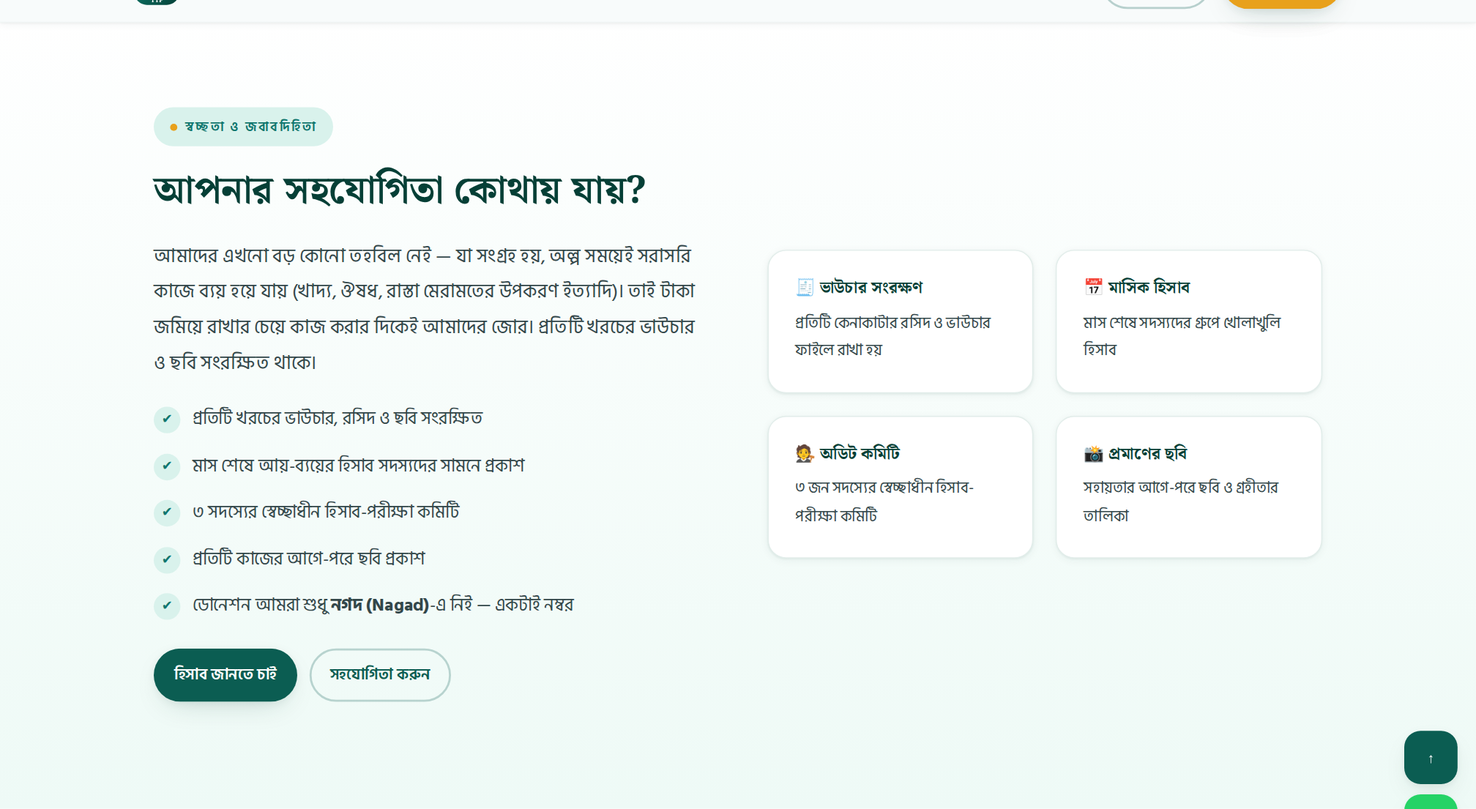
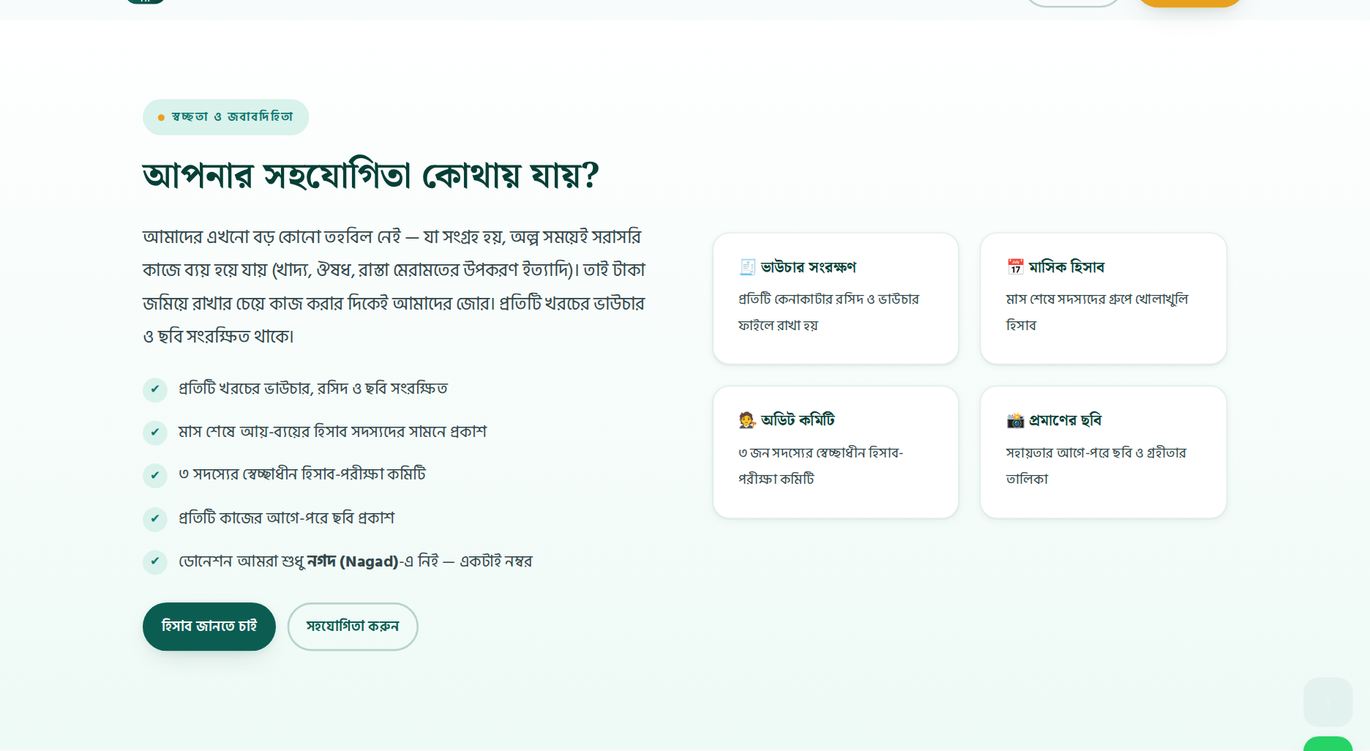
ফিক্স: পেজের শুরুতে ডুপ্লিকেট হয়ে যাওয়া হেডার/টপবার অংশ সরানো (HTML এখন সম্পূর্ণ ভ্যালিড)
- আগের এডিট স্ক্রিপ্টে হেড+টপবার ব্লক দুবার বসে গিয়েছিল → মোবাইলে হেডার দুইবার দেখাচ্ছিল
- এখন DOCTYPE/style/topbar/main সবই একবার, html.parser ভ্যালিডেশন ০ এরর
- প্রিভিউ স্ক্রিনশট হালনাগাদ

diff --git a/index.html b/index.html
@@ -368,376 +368,6 @@ footer ul{list-style:none; padding:0; margin:0; display:grid; gap:9px}
 
 <main id="main">
 
-<!-- ===================== HERO ===================== --><!DOCTYPE html>
-<html lang="bn">
-<head>
-<meta charset="UTF-8" />
-<meta name="viewport" content="width=device-width, initial-scale=1.0" />
-<title>তাকওয়া টাচ ফাউন্ডেশন | তাকওয়ার ছোঁয়ায়, বদলে যাক জীবন ও সমাজ — গোলাপনগর, ভেড়ামারা, কুষ্টিয়া</title>
-<meta name="description" content="তাকওয়া টাচ ফাউন্ডেশন (Taqwa Touch Foundation) — গোলাপনগর, ভেড়ামারা, কুষ্টিয়ার তরুণদের উদ্যোগে গড়া অলাভজনক সামাজিক সংগঠন। বর্তমানে সামাজিক সেবার কাজ চলছে — রাস্তাঘাট উন্নয়ন ও মেরামত, গরীব ও অসহায়দের পাশে দাঁড়ানো, চিকিৎসায় সহযোগিতা, পরিচ্ছন্নতা ও সচেতনতা কার্যক্রম। স্বেচ্ছাসেবক হোন বা নগদে (Nagad) সহযোগিতা করুন — হটলাইন ০১৬০৭-২১৫৪২১।" />
-<meta name="keywords" content="তাকওয়া টাচ ফাউন্ডেশন, Taqwa Touch Foundation, Golapnogor, Bheramara, Kushtia, গোলাপনগর, ভেড়ামারা, কুষ্টিয়া, যুব ফাউন্ডেশন, দান, ডোনেশন, স্বেচ্ছাসেবক, রক্তদান, শিক্ষা সহায়তা, শীতবস্ত্র, সামাজিক সংগঠন, Bangladesh charity" />
-<meta name="author" content="Taqwa Touch Foundation" />
-<meta name="theme-color" content="#0b5d52" />
-<link rel="canonical" href="https://taqwa-touch-foundation.github.io/site/" />
-
-<!-- Open Graph / Facebook / WhatsApp -->
-<meta property="og:type" content="website" />
-<meta property="og:site_name" content="তাকওয়া টাচ ফাউন্ডেশন" />
-<meta property="og:locale" content="bn_BD" />
-<meta property="og:title" content="তাকওয়া টাচ ফাউন্ডেশন | তাকওয়ার ছোঁয়ায়, বদলে যাক জীবন ও সমাজ" />
-<meta property="og:description" content="গোলাপনগর, ভেড়ামারা, কুষ্টিয়ার তরুণদের উদ্যোগে গড়া অলাভজনক সামাজিক সংগঠন। শিক্ষা, খাদ্য, চিকিৎসা, রক্তদান ও শীতবস্ত্র সহায়তার কাজ। আজই আমাদের সাথে যুক্ত হোন — ০১৬০৭-২১৫৪২১" />
-<meta property="og:url" content="https://taqwa-touch-foundation.github.io/site/" />
-<meta property="og:image" content="https://taqwa-touch-foundation.github.io/site/assets/og-cover.png" />
-<meta name="twitter:card" content="summary_large_image" />
-<meta name="twitter:title" content="তাকওয়া টাচ ফাউন্ডেশন — গোলাপনগর, ভেড়ামারা, কুষ্টিয়া" />
-<meta name="twitter:description" content="তাকওয়ার ছোঁয়ায়, বদলে যাক জীবন ও সমাজ — রাস্তাঘাট উন্নয়ন, অসহায়দের সহায়তা ও সামাজিক সেবার কার্যক্রম।" />
-<meta name="twitter:image" content="https://taqwa-touch-foundation.github.io/site/assets/og-cover.png" />
-
-<link rel="icon" href="assets/logo.svg" type="image/svg+xml" />
-<link rel="apple-touch-icon" href="assets/logo.svg" />
-
-<link rel="preload" href="assets/fonts/HindSiliguri-Regular.ttf" as="font" type="font/ttf" crossorigin />
-<style>
-@font-face{font-family:'Hind Siliguri';src:url('assets/fonts/HindSiliguri-Regular.ttf') format('truetype');font-weight:400;font-style:normal;font-display:swap}
-@font-face{font-family:'Hind Siliguri';src:url('assets/fonts/HindSiliguri-SemiBold.ttf') format('truetype');font-weight:600;font-style:normal;font-display:swap}
-@font-face{font-family:'Hind Siliguri';src:url('assets/fonts/HindSiliguri-Bold.ttf') format('truetype');font-weight:700;font-style:normal;font-display:swap}
-@font-face{font-family:'Noto Serif Bengali';src:url('assets/fonts/NotoSerifBengali.ttf') format('truetype');font-weight:400 700;font-style:normal;font-display:swap}
-</style>
-
-<script type="application/ld+json">
-{
-  "@context": "https://schema.org",
-  "@type": "NGO",
-  "name": "Taqwa Touch Foundation",
-  "alternateName": ["তাকওয়া টাচ ফাউন্ডেশন", "Taqwa Touch Foundation, Golapnogor"],
-  "url": "https://taqwa-touch-foundation.github.io/site/",
-  "logo": "https://taqwa-touch-foundation.github.io/site/assets/logo.svg",
-  "slogan": "Touch of Taqwa, Change in Life & Society",
-  "description": "গোলাপনগর, ভেড়ামারা, কুষ্টিয়ার তরুণদের উদ্যোগে পরিচালিত অলাভজনক সামাজিক সংগঠন। বর্তমানে রাস্তাঘাট উন্নয়ন, গরীব-অসহায়দের সহায়তা, চিকিৎসা সহযোগিতা, পরিচ্ছন্নতা ও সচেতনতা কার্যক্রম চলছে।",
-  "foundingDate": "2025",
-  "areaServed": [{"@type":"Place","name":"গোলাপনগর, ভেড়ামারা, কুষ্টিয়া, বাংলাদেশ"}],
-  "address": {
-    "@type": "PostalAddress",
-    "streetAddress": "গোলাপনগর",
-    "addressLocality": "ভেড়ামারা",
-    "addressRegion": "কুষ্টিয়া",
-    "postalCode": "7040",
-    "addressCountry": "BD"
-  },
-  "email": "taqwatouchfoundation@gmail.com",
-  "telephone": "+8801607215421",
-  "contactPoint": {
-    "@type": "ContactPoint",
-    "telephone": "+8801607215421",
-    "contactType": "customer support",
-    "availableLanguage": ["Bengali", "English"]
-  },
-  "sameAs": [
-    "https://www.facebook.com/taqwatouchfoundation",
-    "https://www.instagram.com/taqwatouch"
-  ]
-}
-</script>
-
-<style>
-/* ============ Design tokens ============ */
-:root{
-  --green-900:#053f36; --green-800:#0b5d52; --green-700:#0f766e; --green-600:#12907f;
-  --green-100:#d9f2ec; --green-50:#eefaf6;
-  --amber-500:#e8a11c; --amber-400:#f2b544; --amber-100:#fdf2d8;
-  --ink:#0e1b1a; --ink-2:#33474a; --muted:#6b8085;
-  --bg:#f7fbfa; --card:#ffffff; --line:#e2edea;
-  --radius:18px; --radius-sm:12px; --radius-lg:28px;
-  --shadow-sm:0 1px 2px rgba(6,60,52,.06), 0 2px 8px rgba(6,60,52,.05);
-  --shadow:0 10px 30px -12px rgba(6,60,52,.22), 0 2px 8px rgba(6,60,52,.06);
-  --shadow-lg:0 30px 60px -25px rgba(6,60,52,.35);
-  --max:1180px;
-  --font-body:'Hind Siliguri', system-ui, -apple-system, 'Noto Sans Bengali', sans-serif;
-  --font-head:'Noto Serif Bengali','Hind Siliguri', Georgia, serif;
-}
-*,*::before,*::after{box-sizing:border-box}
-html{scroll-behavior:smooth;-webkit-text-size-adjust:100%}
-body{
-  margin:0; font-family:var(--font-body); color:var(--ink); background:var(--bg);
-  font-size:17px; line-height:1.85; overflow-x:hidden;
-}
-img,svg{max-width:100%;display:block}
-a{color:var(--green-800); text-decoration:none}
-a:hover{color:var(--green-600)}
-h1,h2,h3,h4{font-family:var(--font-head); line-height:1.4; margin:0 0 .5em; color:var(--green-900); font-weight:700}
-h1{font-size:clamp(2rem,5.2vw,3.5rem)}
-h2{font-size:clamp(1.5rem,3.4vw,2.35rem)}
-h3{font-size:clamp(1.1rem,2vw,1.35rem)}
-p{margin:0 0 1rem}
-.wrap{max-width:var(--max); margin:0 auto; padding:0 20px}
-section{padding:clamp(56px,8vw,104px) 0; position:relative}
-.section-alt{background:linear-gradient(180deg,#ffffff 0%,var(--green-50) 100%)}
-.center{text-align:center}
-.lead{font-size:clamp(1.02rem,1.5vw,1.18rem); color:var(--ink-2); max-width:65ch}
-.center .lead{margin-inline:auto}
-.eyebrow{
-  display:inline-flex; align-items:center; gap:8px; font-size:.82rem; font-weight:600;
-  letter-spacing:.14em; text-transform:uppercase; color:var(--green-700);
-  background:var(--green-100); padding:7px 16px; border-radius:999px; margin-bottom:18px;
-}
-.eyebrow::before{content:""; width:7px;height:7px;border-radius:50%;background:var(--amber-500)}
-.skip{position:absolute;left:-9999px;top:0;background:#fff;padding:12px 18px;z-index:200;border-radius:0 0 12px 0}
-.skip:focus{left:0}
-:focus-visible{outline:3px solid var(--amber-500); outline-offset:3px; border-radius:6px}
-
-/* ============ Buttons ============ */
-.btn{
-  display:inline-flex; align-items:center; justify-content:center; gap:9px;
-  padding:14px 26px; border-radius:999px; font-weight:600; font-size:1rem;
-  border:2px solid transparent; cursor:pointer; transition:.25s ease; white-space:nowrap;
-  font-family:var(--font-body); text-align:center;
-}
-.btn-primary{background:var(--green-800); color:#fff; box-shadow:var(--shadow)}
-.btn-primary:hover{background:var(--green-700); color:#fff; transform:translateY(-2px); box-shadow:var(--shadow-lg)}
-.btn-amber{background:var(--amber-500); color:#3a2600; box-shadow:var(--shadow)}
-.btn-amber:hover{background:var(--amber-400); color:#3a2600; transform:translateY(-2px)}
-.btn-ghost{background:transparent; color:var(--green-800); border-color:rgba(11,93,82,.25)}
-.btn-ghost:hover{background:#fff; border-color:var(--green-700); transform:translateY(-2px)}
-.btn-light{background:#fff;color:var(--green-800);box-shadow:var(--shadow)}
-.btn-light:hover{color:var(--green-900);transform:translateY(-2px)}
-.btn-sm{padding:10px 18px; font-size:.93rem}
-
-/* ============ Header ============ */
-.topbar{background:var(--green-900); color:#d8ece8; font-size:.85rem; text-align:center; padding:7px 16px}
-.topbar a{color:#fff; font-weight:600; text-decoration:underline; text-underline-offset:3px}
-header{position:sticky; top:0; z-index:100; background:rgba(247,251,250,.88); backdrop-filter:blur(14px); border-bottom:1px solid transparent; transition:.3s}
-header.scrolled{box-shadow:var(--shadow-sm); border-bottom-color:var(--line); background:rgba(255,255,255,.94)}
-.nav{display:flex; align-items:center; gap:18px; padding:12px 0; min-height:74px}
-.brand{display:flex; align-items:center; gap:12px; font-weight:700; color:var(--green-900); flex-shrink:0}
-.brand img{width:46px;height:46px}
-.brand-txt{display:flex; flex-direction:column; line-height:1.25}
-.brand-txt b{font-family:var(--font-head); font-size:1.06rem}
-.brand-txt span{font-size:.74rem; color:var(--muted); letter-spacing:.06em; font-weight:500}
-.nav-links{display:flex; gap:4px; margin-left:auto; align-items:center}
-.nav-links a{padding:9px 13px; border-radius:10px; font-weight:500; font-size:.96rem; color:var(--ink-2)}
-.nav-links a:hover{background:var(--green-100); color:var(--green-800)}
-.nav-cta{display:flex; gap:10px; align-items:center}
-.burger{margin-left:auto; display:none; background:#fff; border:1px solid var(--line); border-radius:12px; padding:9px 11px; cursor:pointer}
-.burger span{display:block;width:22px;height:2px;background:var(--green-900);margin:4px 0;border-radius:2px;transition:.3s}
-.burger[aria-expanded="true"] span:nth-child(1){transform:translateY(6px) rotate(45deg)}
-.burger[aria-expanded="true"] span:nth-child(2){opacity:0}
-.burger[aria-expanded="true"] span:nth-child(3){transform:translateY(-6px) rotate(-45deg)}
-@media (max-width:1000px){
-  .nav-links{position:absolute; top:100%; left:0; right:0; flex-direction:column; align-items:stretch; gap:2px;
-    background:#fff; padding:14px; box-shadow:var(--shadow); border-radius:0 0 20px 20px;
-    display:none; }
-  .nav-links.open{display:flex}
-  .nav-links a{padding:13px 16px; font-size:1.02rem}
-  .burger{display:block}
-  .nav-cta .btn-ghost{display:none}
-}
-
-/* ============ Hero ============ */
-.hero{padding-top:clamp(40px,6vw,72px); padding-bottom:clamp(48px,7vw,86px); overflow:hidden;
-  background:
-    radial-gradient(1100px 520px at 88% -10%, var(--green-100), transparent 60%),
-    radial-gradient(760px 420px at -10% 22%, var(--amber-100), transparent 62%),
-    linear-gradient(180deg,#ffffff, var(--green-50));
-}
-.hero-grid{display:grid; grid-template-columns:1.08fr .92fr; gap:clamp(28px,4vw,60px); align-items:center}
-@media (max-width:940px){.hero-grid{grid-template-columns:1fr}}
-.hero h1{margin-bottom:14px}
-.hero h1 em{font-style:normal; color:var(--green-700); position:relative}
-.hero h1 em.slogan2{font-size:.62em; display:inline-block; margin-top:.12em}
-.hero h1 em::after{content:""; position:absolute; left:0; right:0; bottom:.06em; height:.32em; background:var(--amber-400); opacity:.45; border-radius:4px; z-index:-1}
-.hero-btns{display:flex; flex-wrap:wrap; gap:12px; margin:26px 0 22px}
-.hero-note{display:flex; flex-wrap:wrap; gap:8px 20px; font-size:.9rem; color:var(--ink-2)}
-.hero-note i{color:var(--green-600); font-style:normal; font-weight:700}
-.hero-art{position:relative}
-.hero-art .blob{position:absolute; inset:auto -6% -8% -6%; height:70%; background:var(--green-100); filter:blur(44px); opacity:.75; border-radius:50%; z-index:0}
-.hero-card{position:relative; z-index:1; background:#fff; border-radius:var(--radius-lg); padding:22px; box-shadow:var(--shadow-lg); border:1px solid var(--line)}
-.hero-card h4{margin:0 0 4px; font-size:1.02rem; font-family:var(--font-body); color:var(--ink)}
-.mini-list{list-style:none; margin:0 0 4px; padding:0; display:grid; gap:12px}
-.mini-list li{display:flex; gap:12px; align-items:flex-start; font-size:.95rem; color:var(--ink-2); line-height:1.6}
-.mini-list .ic{flex:0 0 38px; width:38px; height:38px; border-radius:11px; background:var(--green-50); display:grid; place-items:center; color:var(--green-700)}
-.mini-list b{color:var(--ink); display:block; font-weight:600}
-
-/* ============ Stats strip ============ */
-.stats{border-top:1px solid var(--line); border-bottom:1px solid var(--line); background:#fff; padding:0}
-.stats-grid{display:grid; grid-template-columns:repeat(4,1fr); gap:0}
-.stat{padding:30px 18px; text-align:center; border-right:1px solid var(--line)}
-.stat:last-child{border-right:0}
-.stat .num{font-family:var(--font-head); font-size:clamp(1.55rem,3.4vw,2.3rem); font-weight:700; color:var(--green-800); line-height:1.2}
-.stat .lbl{font-size:.9rem; color:var(--muted)}
-@media (max-width:700px){
-  .stats-grid{grid-template-columns:1fr 1fr}
-  .stat:nth-child(2){border-right:0}
-  .stat:nth-child(1),.stat:nth-child(2){border-bottom:1px solid var(--line)}
-}
-
-/* ============ Cards / grids ============ */
-.grid{display:grid; gap:22px}
-.g3{grid-template-columns:repeat(3,1fr)}
-.g2{grid-template-columns:repeat(2,1fr)}
-.g4{grid-template-columns:repeat(4,1fr)}
-@media (max-width:980px){.g3,.g4{grid-template-columns:repeat(2,1fr)}}
-@media (max-width:640px){.g2,.g3,.g4{grid-template-columns:1fr}}
-.card{background:var(--card); border:1px solid var(--line); border-radius:var(--radius); padding:26px; box-shadow:var(--shadow-sm); transition:.3s; height:100%}
-.card:hover{transform:translateY(-5px); box-shadow:var(--shadow); border-color:#cfe7e0}
-.card .ic-lg{width:56px;height:56px;border-radius:16px;background:linear-gradient(140deg,var(--green-100),#fff);display:grid;place-items:center;color:var(--green-700);margin-bottom:16px;border:1px solid #d4ece5}
-.card h3{margin-bottom:8px; font-size:1.12rem}
-.card p{color:var(--ink-2); font-size:.97rem; margin-bottom:0}
-.card ul{margin:0; padding-left:20px; color:var(--ink-2); font-size:.95rem}
-.badge{display:inline-block; font-size:.76rem; font-weight:600; padding:4px 12px; border-radius:999px; background:var(--amber-100); color:#8a5a00; margin-bottom:12px}
-
-/* ============ Split feature ============ */
-.split{display:grid; grid-template-columns:1fr 1fr; gap:clamp(28px,4vw,60px); align-items:center}
-@media (max-width:900px){.split{grid-template-columns:1fr}}
-.check{list-style:none; padding:0; margin:22px 0 0; display:grid; gap:14px}
-.check li{display:flex; gap:12px; align-items:flex-start; color:var(--ink-2)}
-.check .tick{flex:0 0 26px;height:26px;border-radius:50%;background:var(--green-100);color:var(--green-700);display:grid;place-items:center;font-size:.8rem;font-weight:700;margin-top:3px}
-.quotebox{background:var(--green-800); color:#e8f6f3; border-radius:var(--radius-lg); padding:clamp(26px,4vw,44px); box-shadow:var(--shadow-lg); position:relative; overflow:hidden}
-.quotebox::before{content:"❝"; position:absolute; top:-10px; right:22px; font-size:8rem; opacity:.12; font-family:var(--font-head)}
-.quotebox p{font-size:1.08rem; font-style:italic; color:#fff; margin-bottom:14px}
-.quotebox .who{font-weight:600; color:var(--amber-400); font-size:.95rem}
-
-/* ============ Gallery ============ */
-.gal{display:grid; grid-template-columns:repeat(3,1fr); gap:16px}
-@media (max-width:760px){.gal{grid-template-columns:repeat(2,1fr)}}
-.gal .shot{aspect-ratio:4/3; border-radius:var(--radius); overflow:hidden; position:relative; background:linear-gradient(140deg,var(--green-100),#eaf6f2); border:1px solid var(--line); display:grid; place-items:center; text-align:center; color:var(--muted); font-size:.86rem; padding:14px; transition:.3s}
-.gal .shot:hover{transform:scale(1.02); box-shadow:var(--shadow)}
-.gal .shot img{width:100%;height:100%;object-fit:cover}
-
-/* ============ Donate ============ */
-.donate{background:linear-gradient(150deg,var(--green-900),var(--green-800) 55%,#0a6a5c); color:#dff2ee; overflow:hidden}
-.donate h2,.donate h3{color:#fff}
-.donate .lead{color:#bfe0da}
-.donate-grid{display:grid; grid-template-columns:1fr 1fr; gap:clamp(26px,4vw,54px); align-items:start}
-@media (max-width:900px){.donate-grid{grid-template-columns:1fr}}
-.paycard{background:rgba(255,255,255,.07); border:1px solid rgba(255,255,255,.16); border-radius:var(--radius); padding:22px; backdrop-filter:blur(6px)}
-.payrow{display:flex; align-items:center; justify-content:space-between; gap:14px; padding:14px 0; border-bottom:1px dashed rgba(255,255,255,.18)}
-.payrow:last-child{border-bottom:0}
-.payrow .pm{font-weight:600; color:#fff; display:flex; align-items:center; gap:10px}
-.payrow .pm small{display:block; font-weight:400; color:#a9cfc8; font-size:.8rem}
-.payrow .no{font-family:ui-monospace,Menlo,Consolas,monospace; letter-spacing:.4px; color:var(--amber-400); font-weight:600}
-.amounts{display:flex; flex-wrap:wrap; gap:10px; margin:18px 0}
-.amounts button{padding:10px 18px; border-radius:999px; border:1.5px solid rgba(255,255,255,.32); background:transparent; color:#fff; cursor:pointer; font-weight:600; font-family:var(--font-body); transition:.2s}
-.amounts button:hover,.amounts button.active{background:var(--amber-500); border-color:var(--amber-500); color:#3a2600}
-.copy-btn{background:rgba(255,255,255,.14); border:1px solid rgba(255,255,255,.25); color:#fff; border-radius:9px; padding:6px 12px; font-size:.82rem; cursor:pointer; font-family:var(--font-body); transition:.2s}
-.copy-btn:hover{background:#fff; color:var(--green-900)}
-
-/* ---- মোবাইলে ডোনেশন কার্ডের লেআউট ---- */
-@media (max-width:600px){
-  .payrow{flex-wrap:wrap; row-gap:8px}
-  .payrow > *{flex:0 0 100%}
-  .payrow > span{justify-content:space-between}
-  .payrow .pm{flex-direction:column; align-items:flex-start; gap:0; line-height:1.5}
-  .payrow .pm small{display:block}
-  .payrow .no{font-size:1.02rem}
-  .payrow a.btn, .payrow a.copy-btn{width:100%; justify-content:center; text-align:center}
-  .amounts{gap:8px}
-  .amounts button{padding:10px 15px}
-}
-
-/* ============ Forms ============ */
-form{background:#fff; border:1px solid var(--line); border-radius:var(--radius-lg); padding:clamp(22px,3.4vw,38px); box-shadow:var(--shadow)}
-.field{margin-bottom:18px}
-.field label{display:block; font-weight:600; margin-bottom:7px; font-size:.95rem}
-.field input,.field select,.field textarea{
-  width:100%; padding:13px 15px; border:1.5px solid var(--line); border-radius:var(--radius-sm);
-  font-family:var(--font-body); font-size:1rem; background:#fbfdfc; color:var(--ink); transition:.2s;
-}
-.field input:focus,.field select:focus,.field textarea:focus{outline:none; border-color:var(--green-600); background:#fff; box-shadow:0 0 0 4px rgba(18,144,127,.12)}
-.field .hint{font-size:.83rem; color:var(--muted); margin-top:6px}
-.row2{display:grid; grid-template-columns:1fr 1fr; gap:16px}
-@media (max-width:640px){.row2{grid-template-columns:1fr}}
-.form-note{font-size:.86rem; color:var(--muted); margin-top:14px}
-.toast{position:fixed; left:50%; bottom:28px; transform:translate(-50%,120%); background:var(--green-900); color:#fff; padding:14px 24px; border-radius:999px; box-shadow:var(--shadow-lg); z-index:300; transition:.4s; font-weight:500; max-width:92vw; text-align:center}
-.toast.show{transform:translate(-50%,0)}
-
-/* ============ FAQ ============ */
-details{background:#fff; border:1px solid var(--line); border-radius:var(--radius-sm); padding:0; margin-bottom:12px; overflow:hidden; transition:.2s}
-details[open]{box-shadow:var(--shadow-sm); border-color:#cfe7e0}
-summary{cursor:pointer; font-weight:600; padding:17px 22px; list-style:none; display:flex; justify-content:space-between; gap:16px; align-items:center; color:var(--green-900)}
-summary::-webkit-details-marker{display:none}
-summary::after{content:"+"; font-size:1.4rem; color:var(--green-600); line-height:1; transition:.25s}
-details[open] summary::after{transform:rotate(45deg)}
-details .ans{padding:0 22px 20px; color:var(--ink-2); font-size:.97rem}
-
-/* ============ Contact / footer ============ */
-.contact-grid{display:grid; grid-template-columns:1fr 1fr; gap:clamp(26px,4vw,52px)}
-@media (max-width:860px){.contact-grid{grid-template-columns:1fr}}
-.info-list{list-style:none; padding:0; margin:0; display:grid; gap:18px}
-.info-list li{display:flex; gap:14px; align-items:flex-start}
-.info-list .ic{flex:0 0 44px; height:44px; border-radius:13px; background:var(--green-100); color:var(--green-700); display:grid; place-items:center}
-.info-list b{display:block; color:var(--ink)}
-.info-list span{color:var(--ink-2); font-size:.96rem}
-.socials{display:flex; gap:10px; flex-wrap:wrap; margin-top:18px}
-.socials a{width:46px;height:46px;border-radius:13px;background:#fff;border:1px solid var(--line);display:grid;place-items:center;color:var(--green-800);transition:.25s}
-.socials a:hover{background:var(--green-800); color:#fff; transform:translateY(-3px)}
-footer{background:var(--green-900); color:#b7d6d0; padding:56px 0 26px; font-size:.94rem}
-footer h4{color:#fff; font-size:1rem; font-family:var(--font-body); margin-bottom:14px}
-footer a{color:#cfe8e3}
-footer a:hover{color:var(--amber-400)}
-footer ul{list-style:none; padding:0; margin:0; display:grid; gap:9px}
-.f-grid{display:grid; grid-template-columns:1.5fr 1fr 1fr 1.2fr; gap:34px}
-@media (max-width:860px){.f-grid{grid-template-columns:1fr 1fr}}
-@media (max-width:560px){.f-grid{grid-template-columns:1fr}}
-.f-bottom{border-top:1px solid rgba(255,255,255,.14); margin-top:38px; padding-top:20px; display:flex; justify-content:space-between; gap:14px; flex-wrap:wrap; font-size:.86rem; color:#95bdb6}
-
-/* ============ Floating actions ============ */
-.fab{position:fixed; right:18px; bottom:18px; z-index:120; display:grid; gap:10px; justify-items:end}
-.fab a,.fab button{width:52px;height:52px;border-radius:16px;display:grid;place-items:center;border:0;cursor:pointer;box-shadow:var(--shadow);background:var(--green-800);color:#fff;transition:.25s}
-.fab a:hover,.fab button:hover{transform:translateY(-3px) scale(1.04); background:var(--green-700)}
-.fab .wa{background:#25D366; color:#06331f}
-#toTop{opacity:0;pointer-events:none}
-#toTop.show{opacity:1;pointer-events:auto}
-
-/* ============ Reveal animation ============ */
-.reveal{opacity:0; transform:translateY(26px); transition:opacity .7s cubic-bezier(.2,.7,.3,1), transform .7s cubic-bezier(.2,.7,.3,1)}
-.reveal.in{opacity:1; transform:none}
-@media (prefers-reduced-motion:reduce){
-  *{animation:none!important; transition:none!important}
-  .reveal{opacity:1; transform:none}
-  html{scroll-behavior:auto}
-}
-</style>
-</head>
-<body>
-<a class="skip" href="#main">মূল কনটেন্টে যান</a>
-
-<div class="topbar">
-  ✦ সহযোগিতা ও যোগাযোগের হটলাইন: <a href="tel:+8801607215421">০১৬০৭-২১৫৪২১</a> — জরুরি প্রয়োজন কিংবা সহযোগিতার জন্য কল বা WhatsApp করুন
-</div>
-
-<header id="top">
-  <div class="wrap nav">
-    <a class="brand" href="#top" aria-label="তাকওয়া টাচ ফাউন্ডেশন হোম">
-      <img src="assets/logo.svg" alt="তাকওয়া টাচ ফাউন্ডেশনের লোগো" />
-      <span class="brand-txt">
-        <b>তাকওয়া টাচ ফাউন্ডেশন</b>
-        <span>TAQWA TOUCH FOUNDATION</span>
-      </span>
-    </a>
-
-    <button class="burger" aria-label="মেনু" aria-expanded="false" id="burger">
-      <span></span><span></span><span></span>
-    </button>
-
-    <nav class="nav-links" id="navlinks" aria-label="প্রধান মেনু">
-      <a href="#about">আমরা কারা</a>
-      <a href="#activities">কার্যক্রম</a>
-      <a href="#impact">আমাদের কাজ</a>
-      <a href="#gallery">গ্যালারি</a>
-      <a href="#transparency">স্বচ্ছতা</a>
-      <a href="#join">সদস্য হোন</a>
-      <a href="#contact">যোগাযোগ</a>
-    </nav>
-
-    <div class="nav-cta">
-      <a class="btn btn-ghost btn-sm" href="#join">স্বেচ্ছাসেবক</a>
-      <a class="btn btn-amber btn-sm" href="#donate">ডোনেট করুন</a>
-    </div>
-  </div>
-</header>
-
-<main id="main">
-
 <!-- ===================== HERO ===================== -->
 <section class="hero" aria-labelledby="hero-title">
   <div class="wrap hero-grid">
